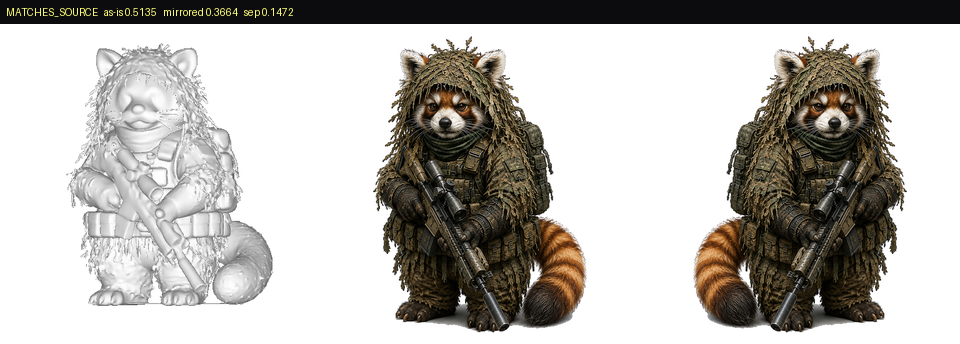
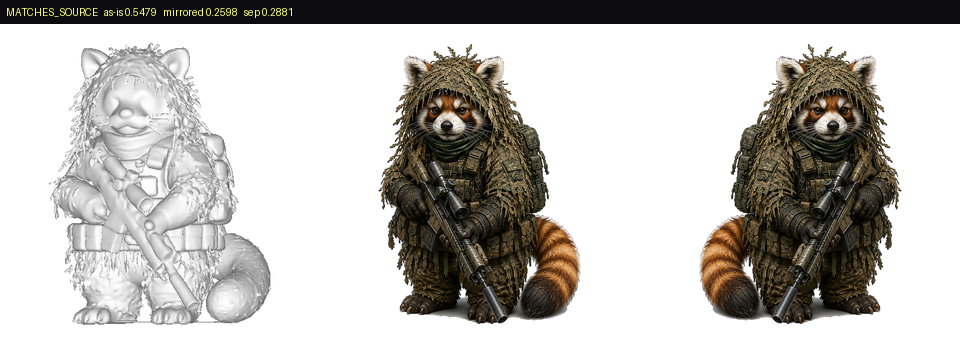
Stop letting the white background vote on chirality
Luna, reviewing at high effort, found the silent-degradation bug: both frames
are composited onto white, the registered patch mean was unweighted, and 113 of
the 256 tokens were therefore white-against-white. Those agree perfectly and say
nothing about handedness. On a small subject that agreement dominates the mean
and produces a stable, confident, wrong verdict -- the exact failure class that
has bitten this file four times.

Three fixes, all from that review:

  - the mean now runs only over tokens that see subject in either frame
  - both frames are canonicalised first, tight-cropped to the subject and
    centred on a square canvas, because registered comparison assumes token
    (i,j) looks at the same part of the subject in each and nothing else
    guaranteed that
  - the yaw can now be taken from the front-axis resolver's own receipt, and is
    refused when that receipt says front and back were never separated; a
    confident chirality verdict on an unresolved axis is just the axis error
    wearing a different label

Separations roughly double, and both verdicts stay correct:

  real mesh        vs source 0.5479  vs mirrored 0.2598  MATCHES_SOURCE
  mirrored control vs source 0.2611  vs mirrored 0.4619  MIRRORED

diff --git a/workers/measure_chirality.py b/workers/measure_chirality.py
@@ -79,6 +79,61 @@ from resolve_front_axis_dino import MODEL, RENDER, clay_render
 MIN_SEPARATION = 0.01
 
 
+#: Fraction of the canonical canvas left as margin around the subject. Fixed, not
+#: tuned: it exists so the subject does not touch the border, where the patch
+#: grid is least reliable.
+CANVAS_MARGIN = 0.06
+
+
+def canonicalise(image, mask):
+    """Crop to the subject and centre it on a square white canvas.
+
+    Registered patch comparison assumes token (i,j) of one image looks at the
+    same part of the subject as token (i,j) of the other. Nothing guarantees
+    that: the clay render is centred on the mesh centroid and framed by the
+    renderer, while the source is framed by whoever drew it. Different subject
+    scale or an off-centre subject silently degrades the comparison into a
+    plausible-looking number, which is this file's characteristic failure.
+
+    So both images are put in the same canonical frame first -- tight crop to
+    the subject, then centred on a square canvas at a fixed margin. This is
+    deterministic and introduces no tunable beyond the margin.
+    """
+    import numpy as np
+    from PIL import Image
+
+    rows = np.nonzero(mask.any(axis=1))[0]
+    columns = np.nonzero(mask.any(axis=0))[0]
+    if not len(rows) or not len(columns):
+        return image.convert("RGB")
+    box = (int(columns[0]), int(rows[0]), int(columns[-1]) + 1, int(rows[-1]) + 1)
+    crop = image.convert("RGB").crop(box)
+
+    side = max(crop.size)
+    canvas_side = int(round(side / (1.0 - 2.0 * CANVAS_MARGIN)))
+    canvas = Image.new("RGB", (canvas_side, canvas_side), (255, 255, 255))
+    canvas.paste(crop, ((canvas_side - crop.width) // 2,
+                        (canvas_side - crop.height) // 2))
+    return canvas
+
+
+def foreground_mask(image):
+    """Subject pixels: anything not the white field both frames are built on."""
+    import numpy as np
+
+    return np.asarray(image.convert("RGB")).min(axis=-1) < 244
+
+
+def patch_foreground(image, grid):
+    """`mask` reduced to the patch grid: a token counts if it sees any subject."""
+    import numpy as np
+    from PIL import Image
+
+    mask = foreground_mask(image).astype(np.uint8) * 255
+    small = Image.fromarray(mask).resize((grid, grid), Image.BILINEAR)
+    return np.asarray(small) > 32
+
+
 def embed_grid(images, model, processor, torch):
     """Spatially-registered DINOv2 patch-token grids, L2 normalised per token.
 
@@ -100,11 +155,23 @@ def embed_grid(images, model, processor, torch):
     return grids
 
 
-def registered_similarity(a, b):
-    """Mean cosine between patch tokens at the SAME grid position."""
+def registered_similarity(a, b, keep=None):
+    """Mean cosine between patch tokens at the SAME grid position.
+
+    `keep` restricts the mean to tokens that see subject in either image. Both
+    frames are composited onto white, so without it a large share of the grid is
+    white-against-white, which agrees perfectly and says nothing about
+    handedness. On a small subject that background agreement dominates the mean
+    and yields a stable, confident, wrong verdict.
+    """
     import numpy as np
 
-    return float(np.mean(np.sum(a * b, axis=-1)))
+    per_token = np.sum(a * b, axis=-1)
+    if keep is not None:
+        selected = per_token[keep.reshape(-1)]
+        if selected.size:
+            return float(np.mean(selected))
+    return float(np.mean(per_token))
 
 
 def resolve(mesh_path: Path, source_path: Path, yaw: float, sheet: Path | None):
@@ -127,15 +194,26 @@ def resolve(mesh_path: Path, source_path: Path, yaw: float, sheet: Path | None):
     source = Image.open(source_path).convert("RGBA")
     flat = Image.new("RGB", source.size, (255, 255, 255))
     flat.paste(source, mask=source.split()[3])
-    flipped = flat.transpose(Image.FLIP_LEFT_RIGHT)
 
-    render = clay_render(vertices, faces, normals, float(yaw), size=RENDER)
+    clay = Image.fromarray(clay_render(vertices, faces, normals, float(yaw),
+                                       size=RENDER)).convert("RGB")
+
+    # Both into the same canonical frame before anything is embedded, so that
+    # token (i,j) means the same thing in each. The source's own alpha defines
+    # its subject; the render's white field defines the render's.
+    render = canonicalise(clay, foreground_mask(clay))
+    upright = canonicalise(flat, np.asarray(source.split()[3]) > 16)
+    flipped = upright.transpose(Image.FLIP_LEFT_RIGHT)
 
     processor = AutoImageProcessor.from_pretrained(MODEL)
     model = AutoModel.from_pretrained(MODEL).eval()
-    grids = embed_grid([render, flat, flipped], model, processor, torch)
-    as_is = registered_similarity(grids[0], grids[1])
-    mirrored = registered_similarity(grids[0], grids[2])
+    grids = embed_grid([render, upright, flipped], model, processor, torch)
+
+    grid = int(round(grids.shape[1] ** 0.5))
+    keep = (patch_foreground(render, grid) | patch_foreground(upright, grid)
+            | patch_foreground(flipped, grid))
+    as_is = registered_similarity(grids[0], grids[1], keep)
+    mirrored = registered_similarity(grids[0], grids[2], keep)
 
     separation = abs(as_is - mirrored)
     if separation < MIN_SEPARATION:
@@ -155,6 +233,8 @@ def resolve(mesh_path: Path, source_path: Path, yaw: float, sheet: Path | None):
         "score_source_mirrored": round(mirrored, 6),
         "separation": round(separation, 6),
         "min_separation": MIN_SEPARATION,
+        "tokens_compared": int(keep.sum()),
+        "tokens_total": int(keep.size),
         "verdict": verdict,
         "note": ("bare geometry versus source and mirrored source; no texture, "
                  "no atlas, no colour model, no per-asset constant. See the "
@@ -171,8 +251,8 @@ def resolve(mesh_path: Path, source_path: Path, yaw: float, sheet: Path | None):
         draw.text((6, 6), f"{verdict}   as-is {as_is:.4f}   mirrored "
                           f"{mirrored:.4f}   sep {separation:.4f}",
                   fill=(255, 255, 120))
-        panels = [(Image.fromarray(render).convert("RGB"), "geometry"),
-                  (flat, "source"), (flipped, "source mirrored")]
+        panels = [(render, "geometry"), (upright, "source"),
+                  (flipped, "source mirrored")]
         for i, (image, label) in enumerate(panels):
             canvas.paste(image.resize((tile, tile), Image.LANCZOS), (i * tile, bar))
             draw.text((i * tile + 6, bar + 4), label, fill=(255, 255, 255))
@@ -186,13 +266,38 @@ def main(argv: list[str] | None = None) -> int:
     parser = argparse.ArgumentParser(description=__doc__)
     parser.add_argument("--mesh", required=True, type=Path)
     parser.add_argument("--source", required=True, type=Path)
-    parser.add_argument("--yaw", required=True, type=float,
-                        help="resolved front yaw, from resolve_front_axis_dino")
+    parser.add_argument("--yaw", type=float, default=None,
+                        help="resolved front yaw, in the RESOLVER's convention")
+    parser.add_argument("--front-axis", type=Path, default=None,
+                        help="front_axis json from resolve_front_axis_dino; "
+                             "preferred over --yaw, and checked")
     parser.add_argument("--out", required=True, type=Path)
     parser.add_argument("--sheet", type=Path, default=None)
     args = parser.parse_args(argv)
 
-    result = resolve(args.mesh, args.source, args.yaw, args.sheet)
+    # A chirality verdict is only as good as the yaw it was asked about. If the
+    # front axis itself was not resolved, a confident MIRRORED here is just the
+    # front-axis error wearing a different label -- so take the yaw from the
+    # resolver's own receipt and refuse when that receipt says it could not
+    # separate front from back.
+    yaw = args.yaw
+    if args.front_axis is not None:
+        axis = json.loads(args.front_axis.read_text(encoding="utf-8"))
+        if not axis.get("front_back_separated"):
+            print(json.dumps({
+                "schema": "lowvram3d_chirality_v3",
+                "verdict": "FRONT_AXIS_UNRESOLVED",
+                "front_axis": str(args.front_axis),
+                "antipode_margin": axis.get("antipode_margin"),
+                "note": ("the front axis was not separated from its antipode, "
+                         "so no chirality verdict is meaningful"),
+            }, indent=2))
+            return 2
+        yaw = float(axis["best_yaw_deg"])
+    if yaw is None:
+        parser.error("one of --yaw or --front-axis is required")
+
+    result = resolve(args.mesh, args.source, yaw, args.sheet)
     args.out.parent.mkdir(parents=True, exist_ok=True)
     args.out.write_text(json.dumps(result, indent=2) + "\n", encoding="utf-8")
     print(json.dumps(result, indent=2))
